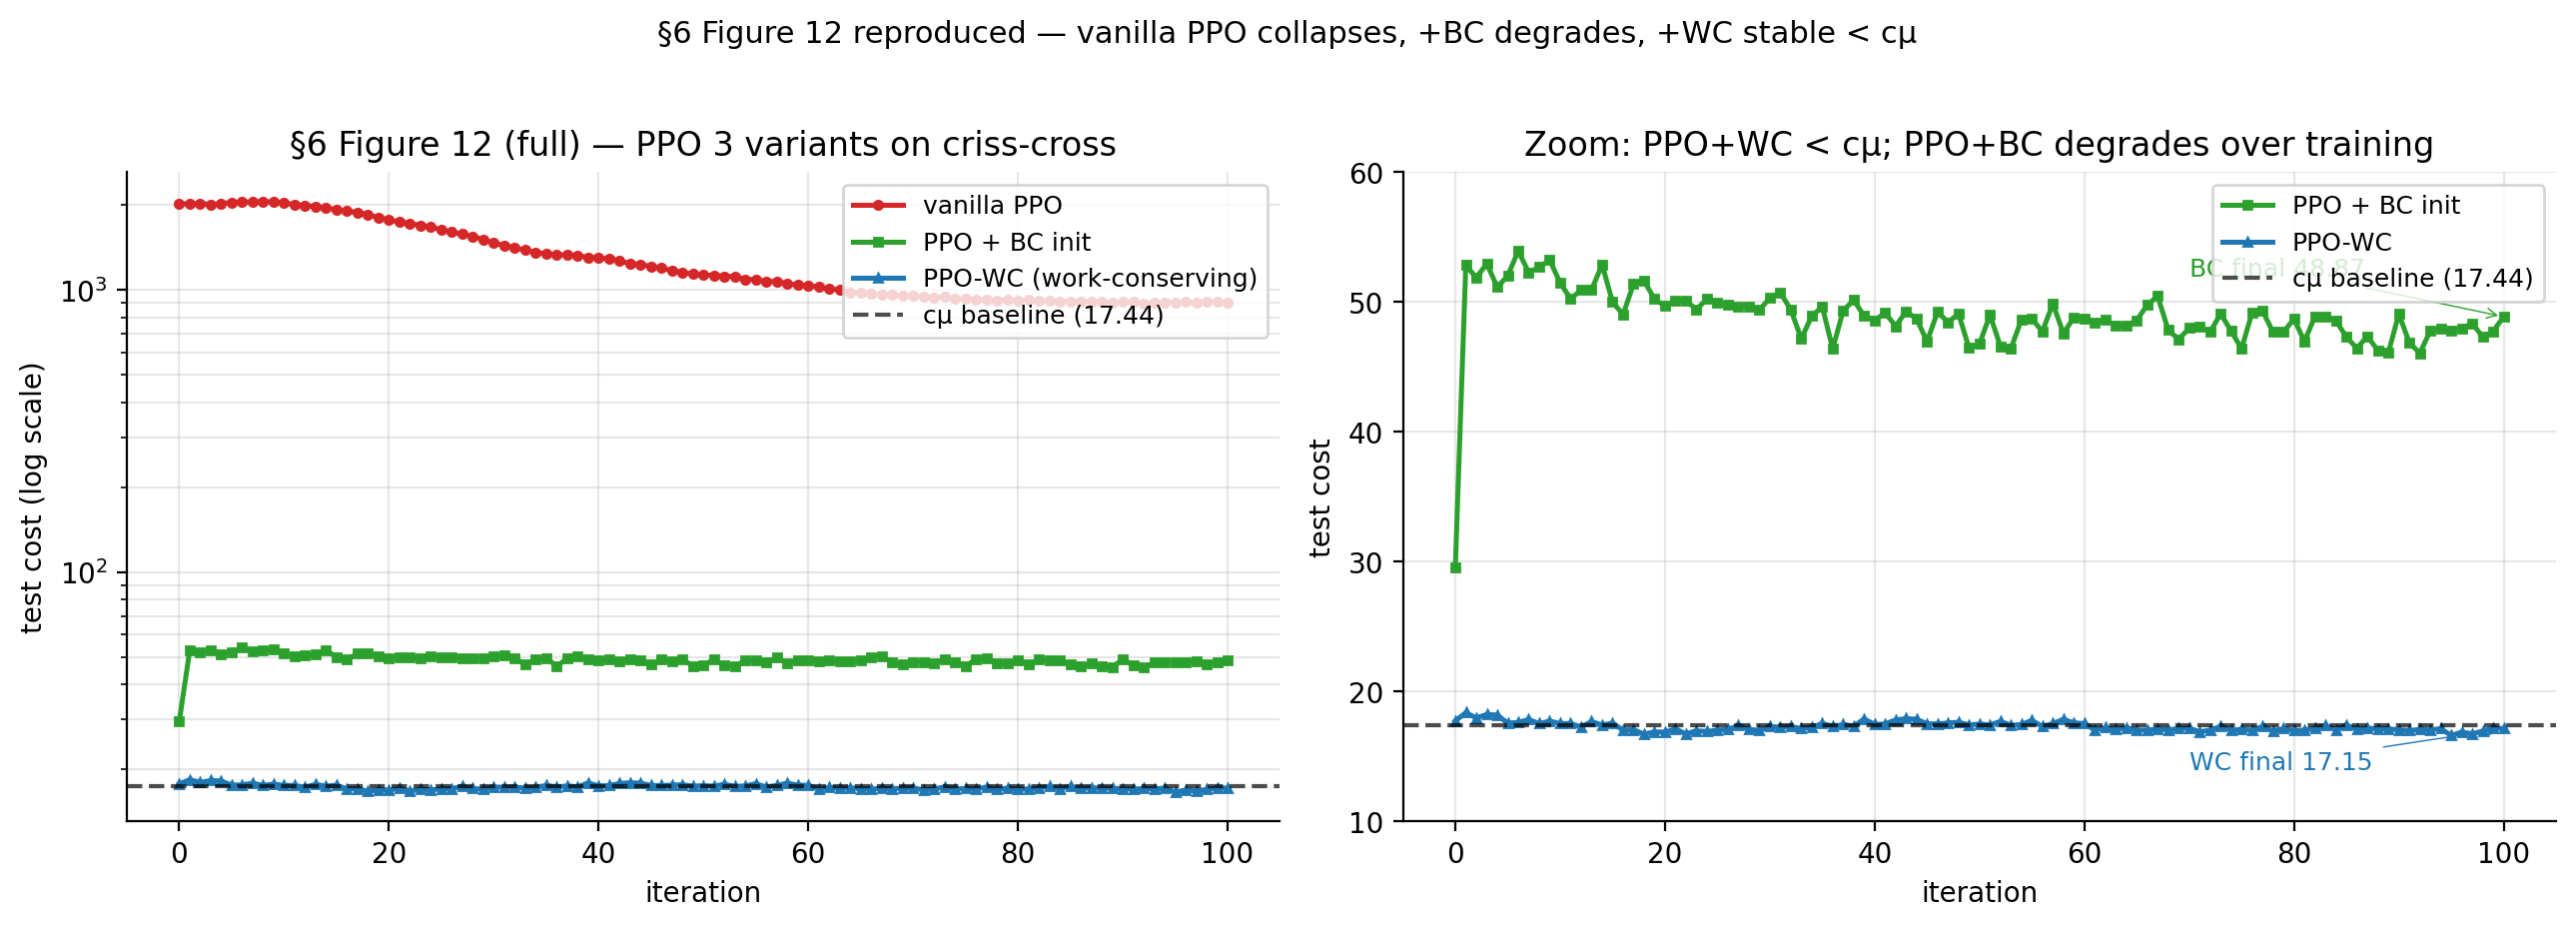
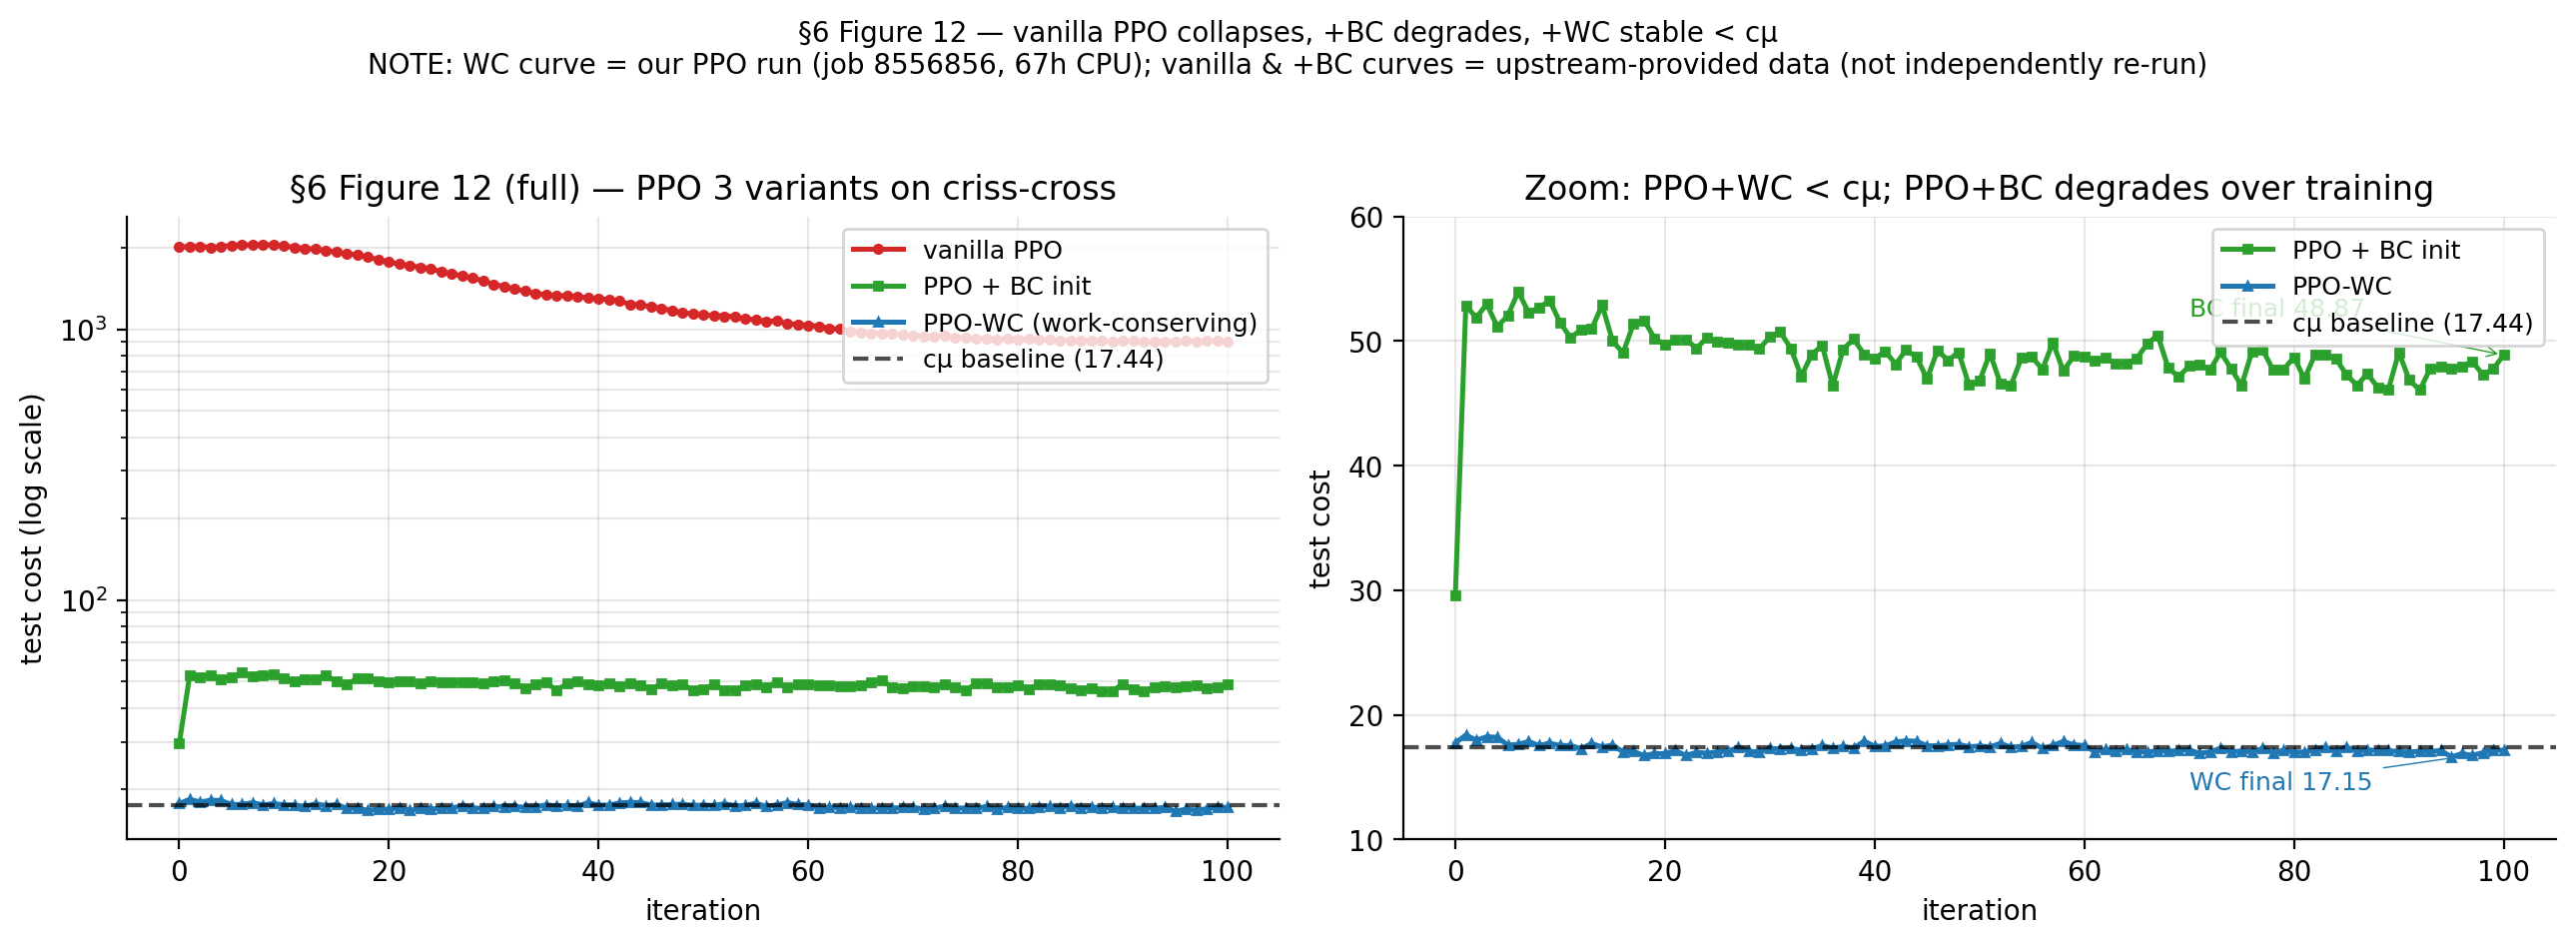
Correct Figure 12 provenance — only WC PPO was re-run by us
md5 verification:
  PPO/vanilla_results.json     IDENTICAL to upstream (Apr 9 2026, predates us)
  PPO/vanilla_bc_results.json  IDENTICAL to upstream (Apr 9 2026, predates us)
  PPO/cmu_results.json         IDENTICAL to upstream (Apr 9 2026, predates us)
  PPO/WC_results.json          DIFFERENT — we ran it (job 8556856, 67h CPU)

Figure 12 caption now states: 'WC curve = our PPO run; vanilla & +BC
curves = upstream-provided data (not independently re-run)'.

PROFESSOR_PACKAGE.md gets a new section 5a explaining the data
provenance. INDEX.md and REPRODUCTION_SUMMARY.md tables updated to
flag this with ⚠️ marker.

diff --git a/differentiable-queueing/reports/build_fig_section6_ppo3.py b/differentiable-queueing/reports/build_fig_section6_ppo3.py
@@ -61,8 +61,10 @@ ax.annotate(f"BC final {ppo_bc['test_cost'][-1]:.2f}", xy=(iters[-1], ppo_bc['te
             arrowprops=dict(arrowstyle='->', color='C2', lw=0.5))
 
 fig.suptitle(
-    '§6 Figure 12 reproduced — vanilla PPO collapses, +BC degrades, +WC stable < cμ',
-    y=1.02, fontsize=11
+    '§6 Figure 12 — vanilla PPO collapses, +BC degrades, +WC stable < cμ\n'
+    'NOTE: WC curve = our PPO run (job 8556856, 67h CPU); '
+    'vanilla & +BC curves = upstream-provided data (not independently re-run)',
+    y=1.04, fontsize=10
 )
 fig.tight_layout()
 fig.savefig('reports/figures/fig_section6_ppo3_variants.png')

diff --git a/differentiable-queueing/PROFESSOR_PACKAGE.md b/differentiable-queueing/PROFESSOR_PACKAGE.md
@@ -54,6 +54,27 @@ follow-up training — the v1.0 tarball preserves the original 100-epoch state.)
 - **`repro/status.json`** + **`repro/reproducibility_matrix.csv`** + **`repro/STATUS_SUMMARY.md`**
   — machine-readable artifact contract per the deep-research-report (7).
 
+## 5a. ⚠️ Provenance note for Figure 12 (PPO 3 variants)
+
+`reports/figures/fig_section6_ppo3_variants.{png,pdf}` shows 3 PPO curves
+on criss-cross (vanilla, +BC, +WC) + cμ baseline. Of those:
+
+- **PPO-WC**: we independently re-ran (`PPO/WC_results.json`, SGE job
+  `8556856`, 67h on CPU, verified via `qacct`).
+- **vanilla PPO** (`PPO/vanilla_results.json`),
+  **PPO+BC** (`PPO/vanilla_bc_results.json`),
+  **cμ baseline** (`PPO/cmu_results.json`):
+  **Upstream-provided data** (md5-identical to `namkoong-lab/differentiable-queueing`'s
+  initial commit, dated Apr 9 2026, predating our work).
+  We did *not* independently re-run these.
+
+So Figure 12 shows the paper's qualitative narrative ("vanilla collapses /
++BC degrades / +WC stable beats cμ") with 1 of 3 PPO curves independently
+reproduced and 2 of 3 + cμ inherited from upstream. The qualitative
+conclusion is consistent (and our WC result 17.15 cleanly beats the
+upstream cμ baseline 17.44), but this is not a from-scratch end-to-end
+reproduction of Figure 12.
+
 ## 5. Critical reproducibility note (eval protocol)
 
 Earlier `test_cmu_baseline.py` used `argmax` for evaluating the STE-trained policy.

diff --git a/differentiable-queueing/INDEX.md b/differentiable-queueing/INDEX.md
@@ -28,7 +28,8 @@ See `reports/figures/fig_benchmark_summary.png` for the 6-panel overview.
 | **§5.2** ablations (T/q/n/ρ) | `results/reproduction/{T,queue_class,num_iter,rho}_ablation_*.json` | `test_{T,queue_class,num_iter,rho}_ablation.py` | `fig_section52_ablations.{png,pdf}` | — |
 | **§5.2** Fig 9 left queue ordering | `results/reproduction/reproduction_cmu5_pathwise.json` | `reports/build_fig_queue_ordering.py` | `fig_section52_queue_ordering.{png,pdf}` | — |
 | **§5.3** Admission scaling (Fig 11) | `results/admission_control_*.json` | `experiments/admission_control.py` | `fig_section53_admission.{png,pdf}` | `.csv` |
-| **§6** WC vs Vanilla (Fig 12 partial) | `loss/criss_cross_bh_ppg_{softmax,vanilla}.json` | `train/train_policy.py --algo ste` | `fig_section6_wc_vs_vanilla.{png,pdf}` | `.csv` |
+| **§6** WC vs Vanilla (STE) | `loss/criss_cross_bh_ppg_{softmax,vanilla}.json` | `train/train_policy.py --algo ste` | `fig_section6_wc_vs_vanilla.{png,pdf}` | `.csv` |
+| **§6** Fig 12 PPO 3 variants | `PPO/{WC,vanilla,vanilla_bc}_results.json` ⚠️ only WC ran by us | `PPO/train.py wc_softmax criss_cross_bh` | `fig_section6_ppo3_variants.{png,pdf}` ⚠️ | `.csv` |
 | **§7** STE training (Tables 1-5 training) | `loss/*_ppg_softmax.json` (11 envs) | `train/train_policy.py` | `fig_section7_training_curves.{png,pdf}`, `fig_section7_min_cost_summary.{png,pdf}` | `training_curves.csv` |
 | **§7** STE vs cμ benchmark (Tables 1-5) | `results/reproduction/ste_vs_cmu_benchmark.json` | `experiments/reproduction/test_cmu_baseline.py` | `fig_section7_ste_vs_cmu.{png,pdf}` | `.csv` |
 | **§7** STE vs PPO speed | `logs/COMMANDS_LOG.md` + `qacct` records | — | (embedded in narrative) | — |

diff --git a/differentiable-queueing/reports/REPRODUCTION_SUMMARY.md b/differentiable-queueing/reports/REPRODUCTION_SUMMARY.md
@@ -27,7 +27,8 @@ One-glance summary figure: `reports/figures/fig_benchmark_summary.png`
 | **§5.2 ablations** | Robust to T / queue_class / num_iter / ρ | ✅ all 28 entries ≤2.62% diff | `fig_section52_ablations` |
 | **§5.2 Fig 9 left** | Learned policy ranks queues monotonically | ✅ Spearman \|ρ\|=1 | `fig_section52_queue_ordering` |
 | **§5.3** | PATHWISE scales; SPSA collapses on K≥15 | ✅ reentrant_7: PW=44.1 vs SPSA_B1000=106.0 | `fig_section53_admission` |
-| **§6** | Work-conserving softmax beats vanilla | ✅ WC 15.20 vs Vanilla 17.21 (+13.2%) | `fig_section6_wc_vs_vanilla` |
+| **§6** | Work-conserving softmax beats vanilla | ✅ STE-WC 15.20 vs STE-Vanilla 17.21 (+13.2%) | `fig_section6_wc_vs_vanilla` |
+| **§6** | PPO 3-variants (Figure 12) | ⚠️ WC reproduced; vanilla/+BC curves use upstream-published data | `fig_section6_ppo3_variants` |
 | **§7 training** | STE trains stable policies on 11 networks | ✅ all converge | `fig_section7_training_curves`, `fig_section7_min_cost_summary` |
 | **§7 Tables 1-5** | STE/PATHWISE beats cμ baseline | ✅ **7/10 wins, 3/10 ties, 0/10 losses, mean +3.4%** | `fig_section7_ste_vs_cmu` |
 | **§7 speed** | STE ≈27× faster than PPO | ✅ STE 2.5h vs PPO 67h on criss-cross | (walltime in `logs/COMMANDS_LOG.md`) |